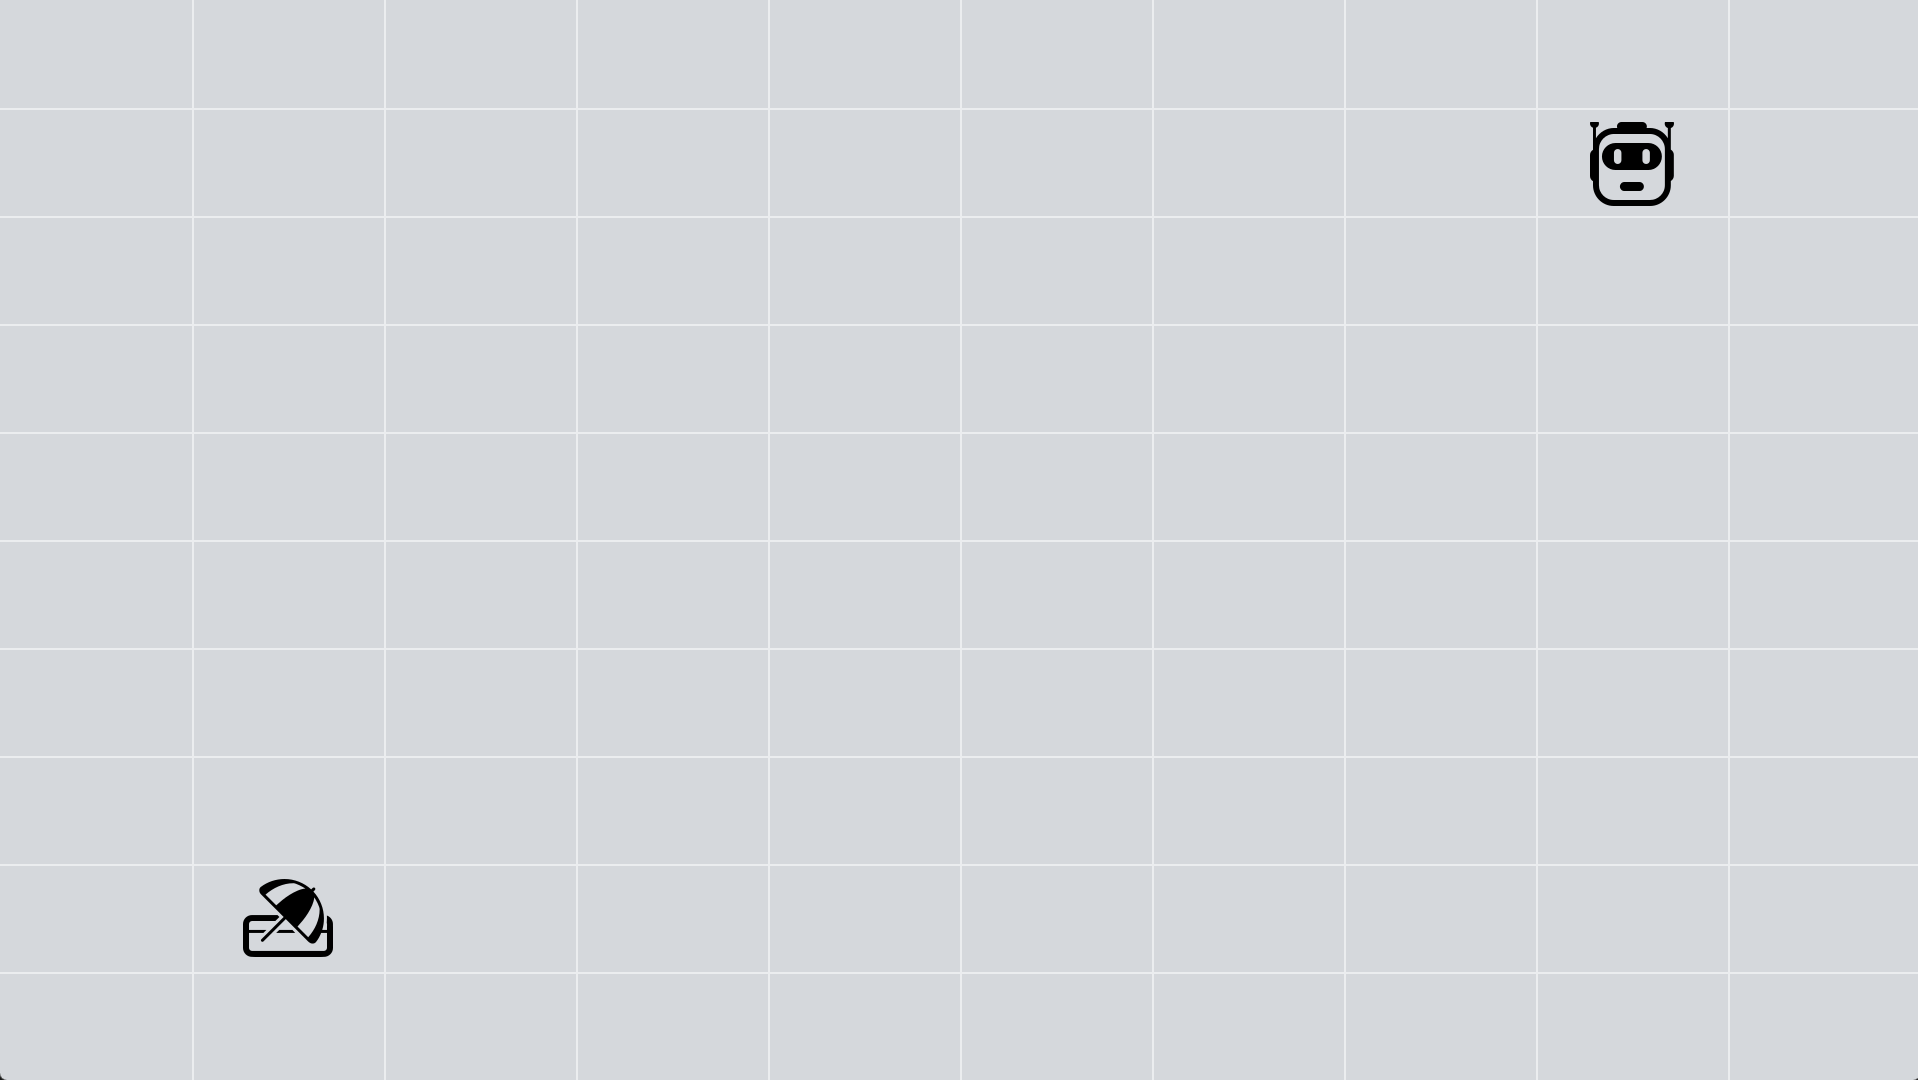
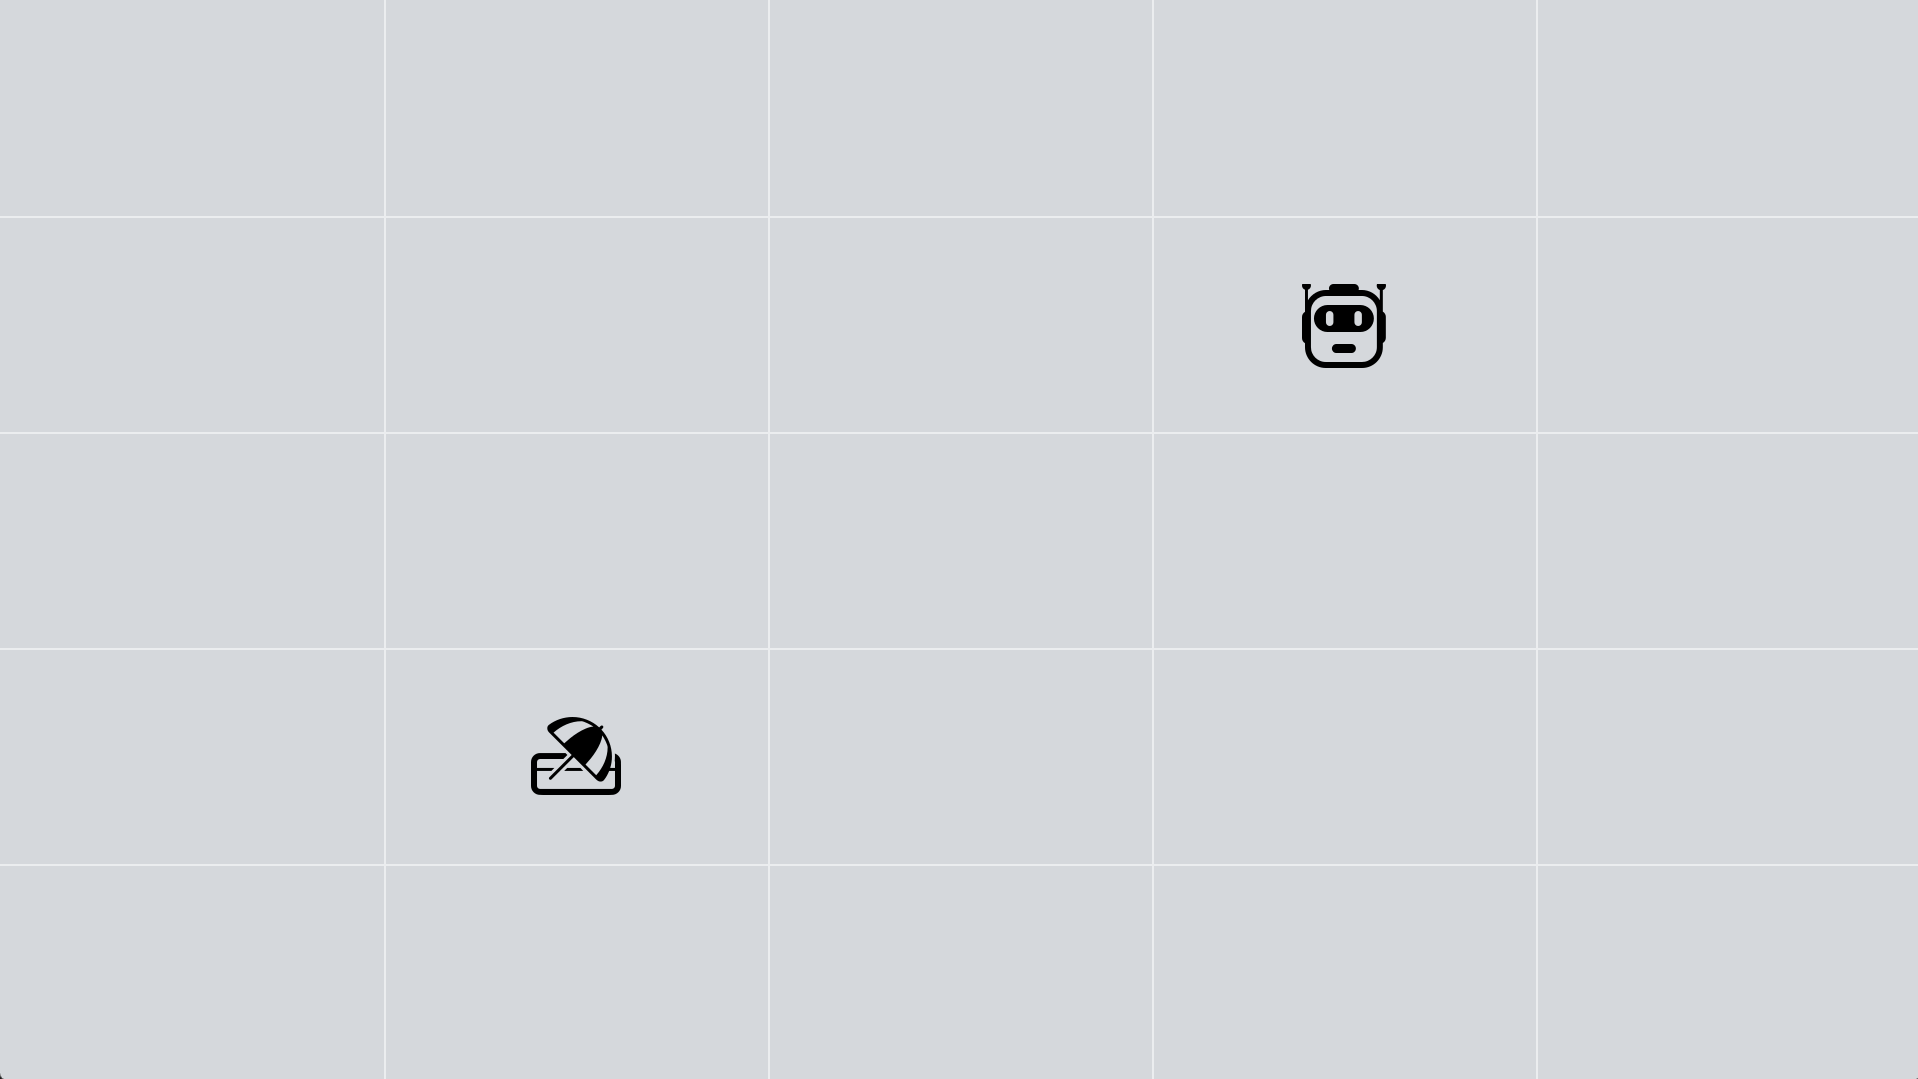
added command to train DQN on grid target MDP
updated image for default grid target MDP

diff --git a/docs/0-lesson-notes/README.md b/docs/0-lesson-notes/README.md
@@ -59,9 +59,9 @@ Building a solution to the reinforcement learning problem requires an understand
 
 An environment where the goal is for the agent (robot icon) to reach the target (beach icon).
 
-* State space: grid width * grid height (default: 10x10)
+* State space: grid width * grid height (default: 5x5)
 * Action space: north, east, south, west
-* Reward function: 1 if agent is on target, otherwise 0
+* Reward function: 1 if agent is on target, otherwise -1
 
 ![Grid Target MDP](../mdp-grid-target.png)
 
@@ -164,6 +164,12 @@ There is an algorithm that can get you the best of both worlds, known as TD(λ) 
 ### Q-Network
 
 _TODO_
+
+#### Train
+
+```
+pipenv run python src/game.py grid-target q-network --episodes 500 --discount-rate .7 --change-rate .01
+```
 
 ### Monte-Carlo Policy Gradient
 
